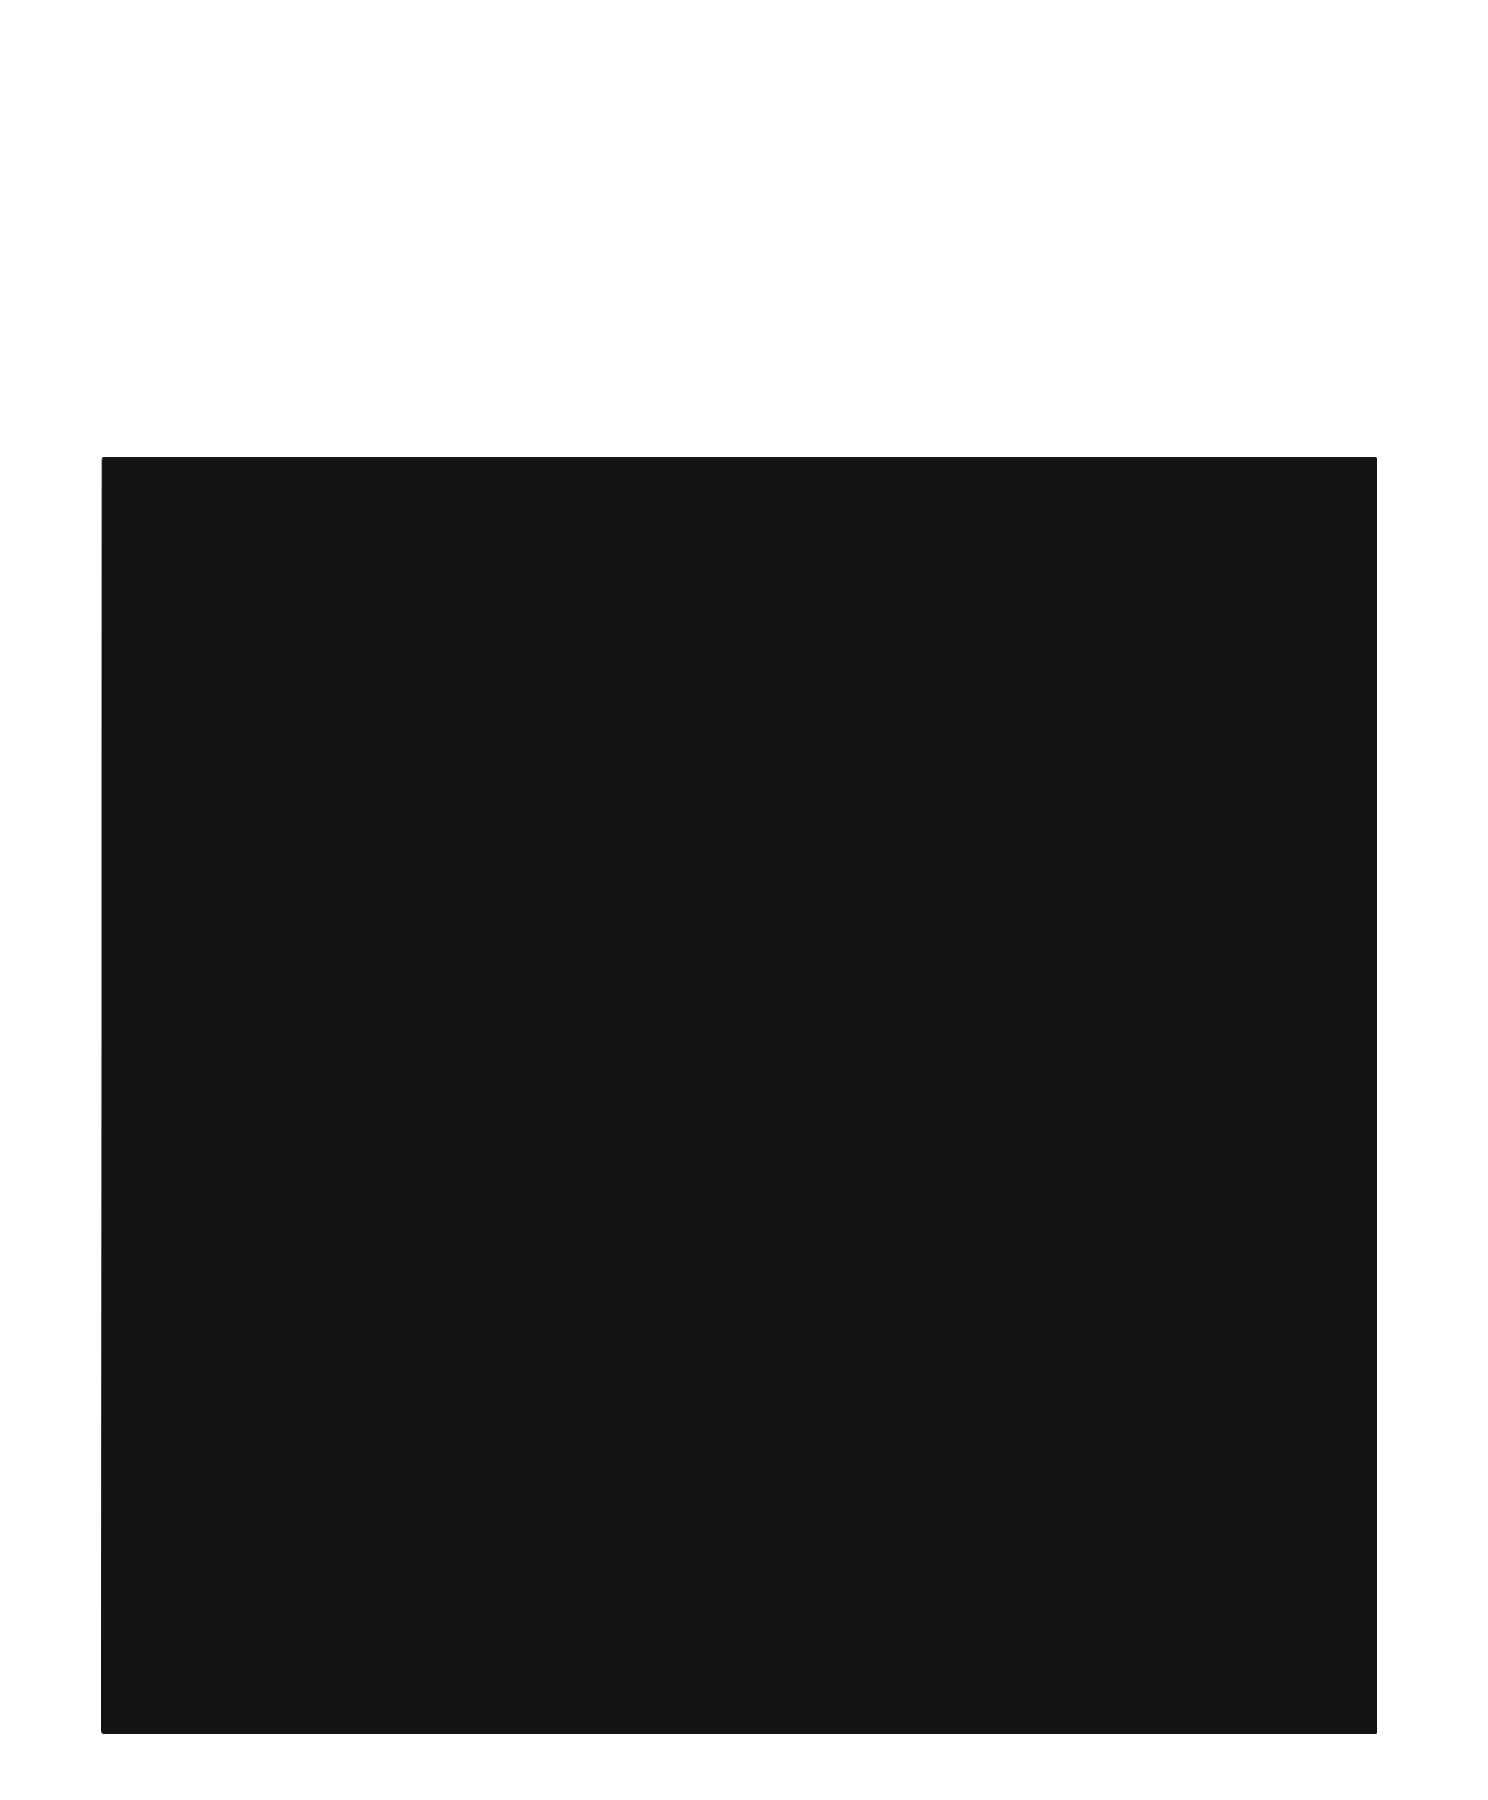
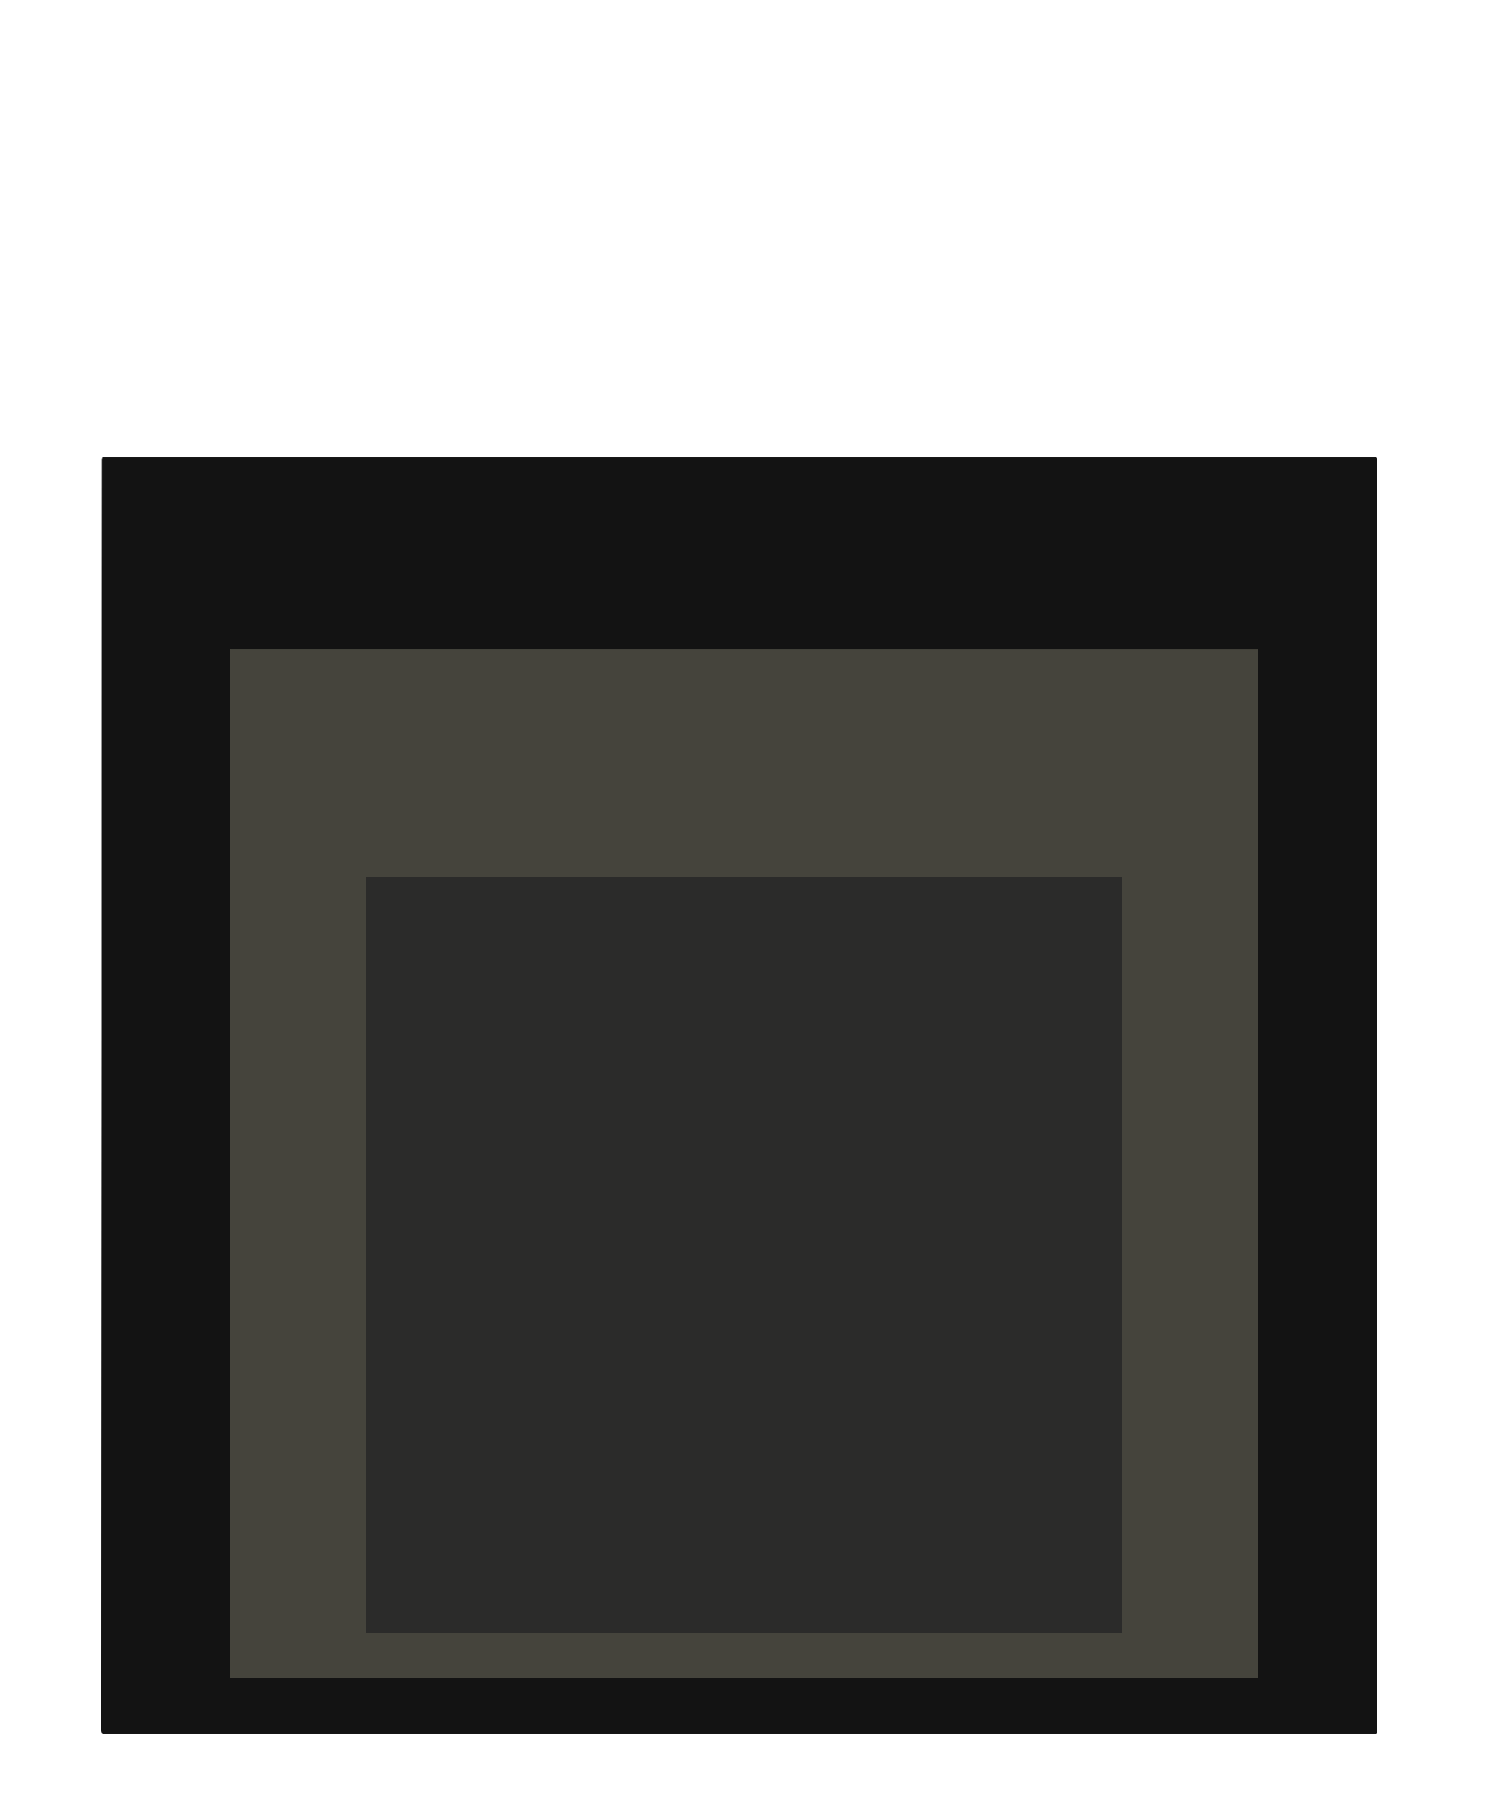
Complete districts

Changed region(s): [[0.1546, 0.3422, 0.8656, 0.9333]]

diff --git a/2422.js b/2422.js
@@ -30,6 +30,10 @@ const losOsosSchema = {
                     name: "Purple",   
                     asset: "./assets/district_purple.png",
                 },
+                {
+                    name: "Black",   
+                    asset: "./assets/district_black.png",
+                },
             ]
         },
         {
@@ -1012,7 +1016,7 @@ const losOsosSchema = {
                     asset: "./assets/mouth_tender_pass.png",
                 },
                 { 
-                    name: "Astronomical Comics postcard", 
+                    name: "Astronomic Comics signed postcard", 
                     asset: "./assets/mouth_astronomical_comics.png",
                 },
                 { 
@@ -1081,8 +1085,12 @@ const losOsosSchema = {
                 },
                 { 
                     name: "Dalí mustache", 
-                    asset: "./assets/mouth_dali_mustache.png",
-                    level: 250,
+                    assets: [ {
+                        image: "./assets/mouth_dali_mustache.png"
+                    }, {
+                        image: "./assets/mouth_dali_mustache_mouth.png",
+                        level: 250,
+                    }],
                 },
                 { 
                     name: "Lollipop", 

diff --git a/pfp.js b/pfp.js
@@ -51,12 +51,12 @@ class PFPFactory {
                     throw "The feature " + feature.name + " must have an asset associated with it.";
                 }
                 if(feature.asset !== undefined) {
-                    pfp.addAsset(new PFPImageAsset(feature.name, feature.asset, this.schema.canvas, feature.level || category.level, this.defineTintColor(feature.asset.tint, feature.tintColor)));
+                    pfp.addAsset(new PFPImageAsset(feature.name, feature.asset, this.schema.canvas, feature.asset.level || feature.level || category.level, this.defineTintColor(feature.asset.tint, feature.tintColor)));
                 } else {
                     if(typeof feature.assets === "object") {
-                        let currentLevel =  feature.level || category.level;
                         for (let i = 0; i < feature.assets.length; i++) {
                             const asset = feature.assets[i];
+                            let currentLevel =  asset.level || feature.level || category.level;
                             pfp.addAsset(new PFPImageAsset(feature.name, asset, this.schema.canvas, currentLevel++, this.defineTintColor(asset.tint, feature.tintColor)));
                         }
                     }
